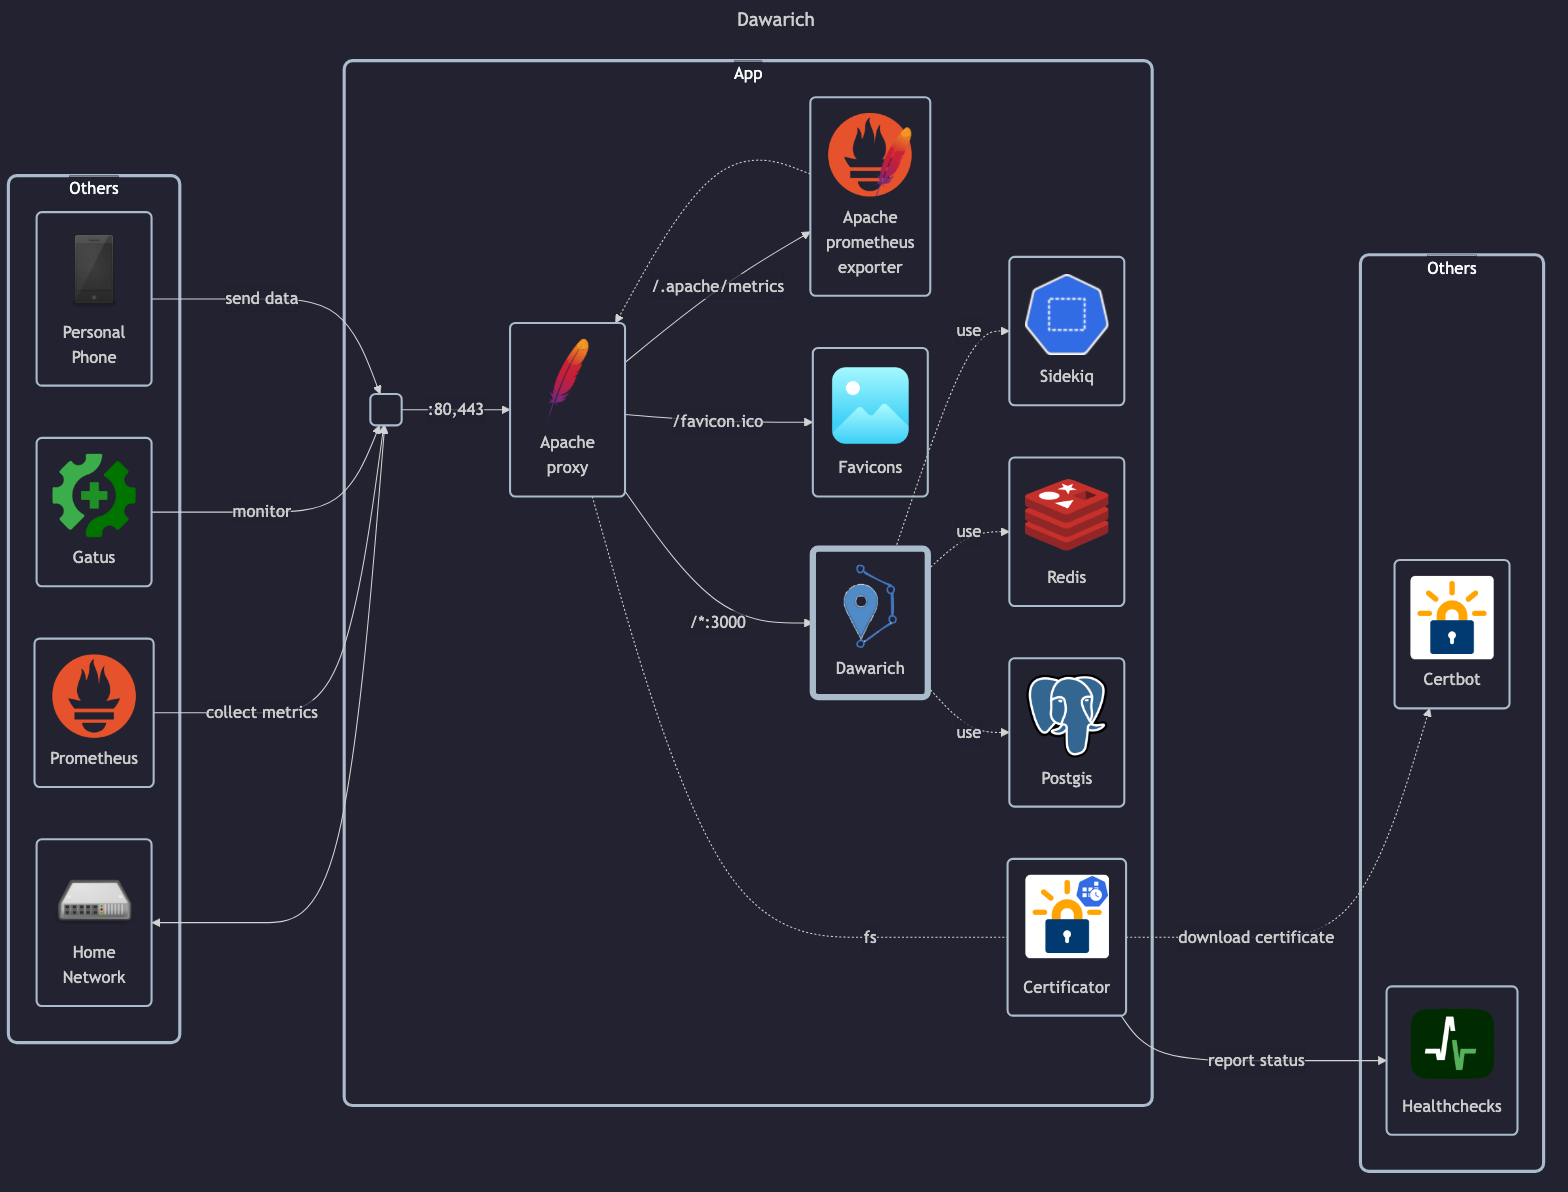
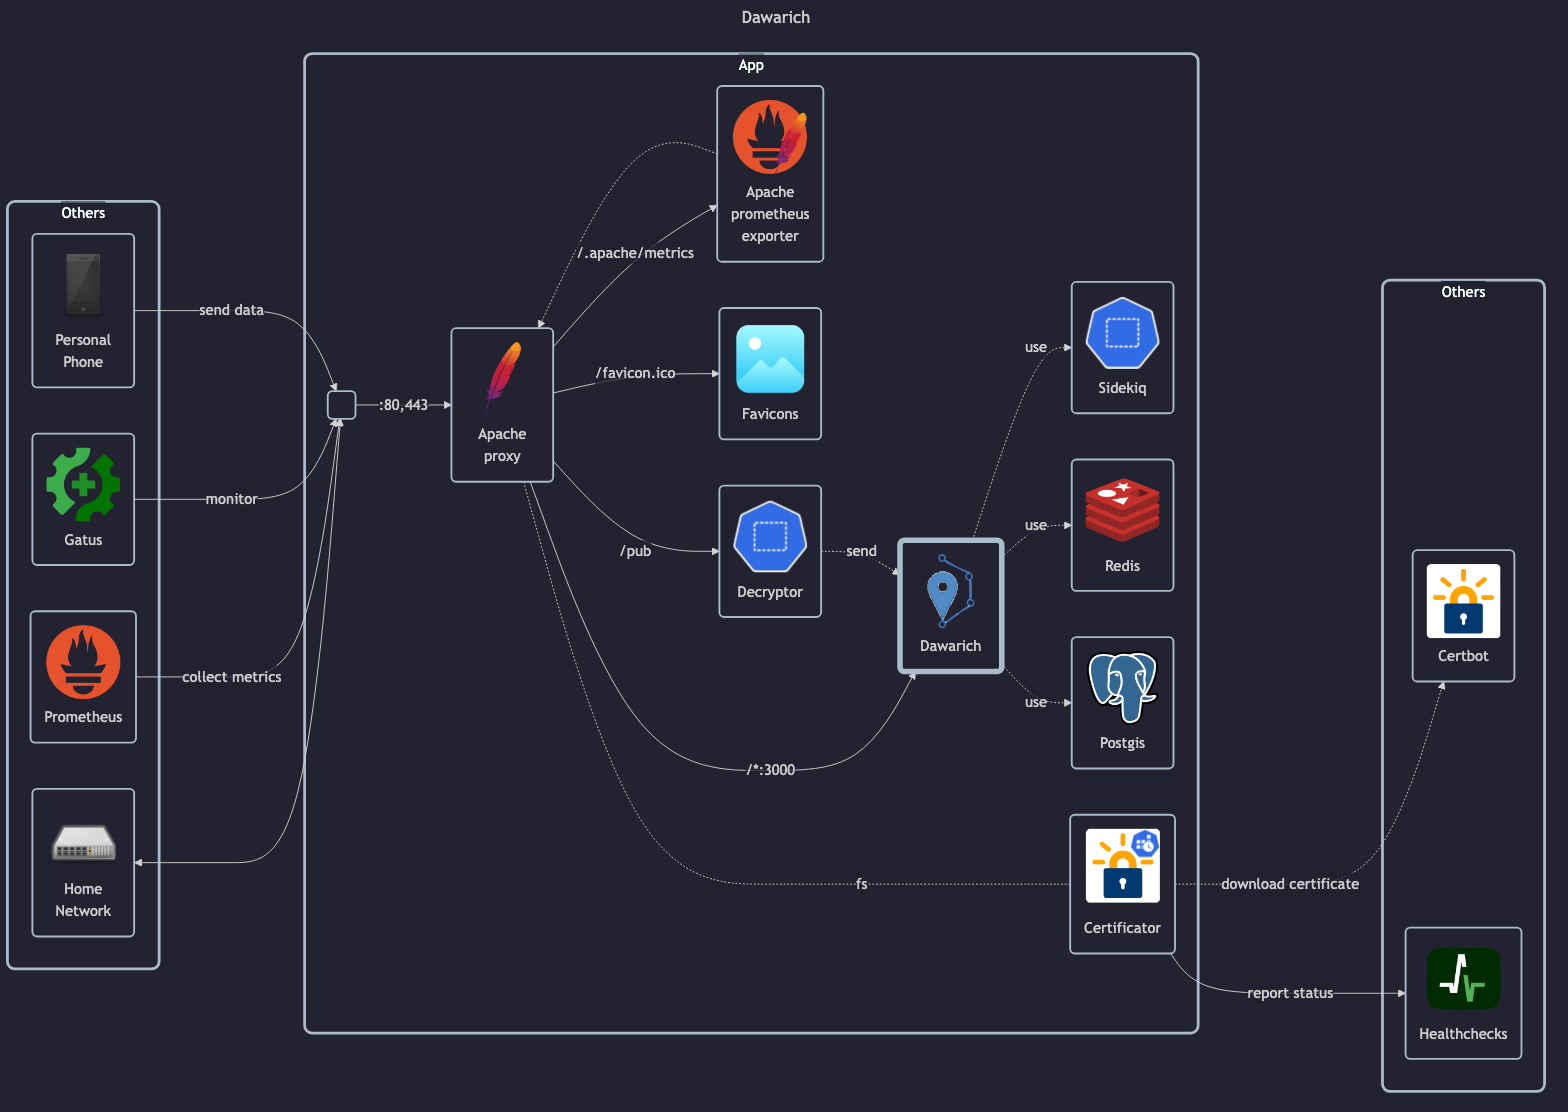
feat: prepare decryptor for dawarich

diff --git a/docker-images/custom/owntracks-decryptor/src/main.ts b/docker-images/custom/owntracks-decryptor/src/main.ts
@@ -66,7 +66,14 @@ app.post('/pub', async (request: Request, response: Response) => {
 
         const decryptedText = await decryptPayload(body.data);
         const decryptedData = JSON.parse(decryptedText);
-        const axiosResponse = await axios.post(`http://app-backend:8083${request.url.replace(/^https?:\/\/.+?\//, '')}`, decryptedData, { headers: headers });
+        const host = (() => {
+            switch (process.env['HOMELAB_APP_NAME']) {
+                case 'dawarich': return 'app:3000';
+                case 'owntracks': return 'app-backend:8083';
+                default: throw new Error(`Unknown app ${process.env['HOMELAB_APP_NAME']}`);
+            }
+        })();
+        const axiosResponse = await axios.post(`http://${host}${request.url.replace(/^https?:\/\/.+?\//, '')}`, decryptedData, { headers: headers });
 
         console.log(`${new Date().toISOString()} Forwarding value: ${JSON.stringify(decryptedData)}`);
 
